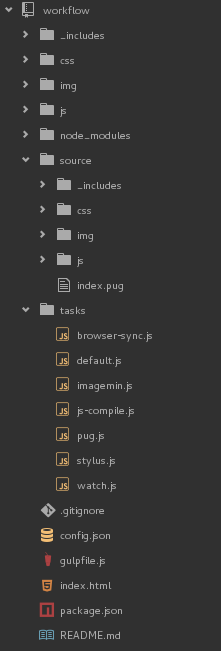
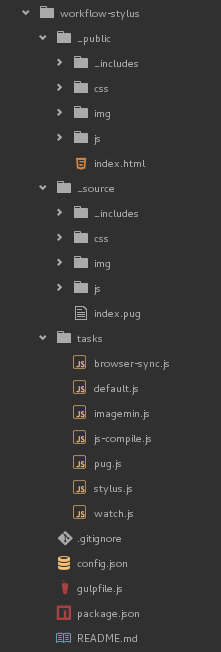
continuando com o artigo

diff --git a/index.html b/index.html
@@ -1,1 +1,19 @@
-<!DOCTYPE html><html lang="pt-br"><head><meta charset="utf-8"><meta http-equiv="X-UA-Compatible" content="IE=edge"><meta name="viewport" content="width=device-width, initial-scale=1.0"><title>Workflow with Stylus</title><meta name="description" content=""><meta name="keywords" content=""><link rel="stylesheet" href="css/styles.css"></head><body><div class="container"><header class="header heading"><img class="image" src="img/gulp-stylus.png"><h1 class="title">Workflow simples, porém muito eficiente</h1><h2 class="description">Automatizando seu workflow front-end com Gulp modularizado e Stylus</h2></header><section class="box"><div class="description"><p class="text">Salve salve peoples, tudo na paz?</p><p class="text">Não sei apenas eu ou mais alguém já passou por isso. A cada novo projeto, ter que refazer o workflow, com task runner, pré-processador CSS, template engine, frameworks, mi-mi-mi.</p><p class="text">Fui um pouquinho tapado em demorar pra ter um repositório como base de workflow! Eis que surgiu esse workflow simples, porém muito eficiente!</p><p class="text">Fiquei tão encanado com isso, que resolvi criar um workflow. Porém, uma coisa acabou me tirando o sono, literalmente. As tarefas do Gulp, muitas e muitas linhas no gulpfile.js.</p><p class="text">Você, dev front-end que conhece e trabalha com Gulp, quantas vezes você parou pra pensar:<span class="dialog">&#32;Poxa meu, quantas linhas eu não tenho em um simples gulpfile.js? Já passaram 110 linhas, que saco! Como posso melhorar isso? Não posso modularizar/componetizar igual fazemos com CSS?</span></p><p class="text">Fiquei extremamente estressado em ver aquele horror. Então, mais noites com poucas horas de sono se foram, rsrs'.</p><p class="text">Encontrei inúmeros tutoriais a respeito, porém a maioria utilizava o Browserify ou Webpack. Lendo um pouco sobre cada um deles, acabei chegando a conclusão de que eles são indicados para projetos mais complexos. Um site, portal de notícias, portfolio, hotsite não vi necessidade de implementá-los. Seria um desperdício de tecnologia!</p><p class="text">Depois de tantas pesquisas, conheci a dependência&#32;<a class="link" href="https://www.npmjs.com/package/gulp-load-plugins" target="_blank">gulp-load-plugins</a>&#32;encontrando no blog da editora&#32;<a class="link" href="https://www.packtpub.com/books/content/blogs" target="_blank">Packt Publishing</a>&#32;um EXCELENTE artigo escrito por Brian Hough: &#32;<a class="dialog link" href="https://www.packtpub.com/books/content/how-to-simplify-your-development-workflow-with-gulp" target="_blank">How to Simplify Your Development Workflow with Gulp</a>&#32;.</p><p class="text">Com essa dependência, conseguimos criar um&#32;<span class="arquivo-code">arquivo.js</span>&#32;para cada tarefa e no&#32;<span class="arquivo-code">gulpfile.js</span>&#32;chamar cada tarefa utilizando o&#32;<span class="arquivo-code">require</span>.</p><p class="text">Para entendermos melhor como ficou tudo, a imagem a seguir mostra como ficou a estrutura de arquivos:</p><img src="img/workflow-estrutura.png"></div></section></div><footer class="footer"><p class="text">by Ednilson Amaral</p></footer></body></html>
+<!DOCTYPE html><html lang="pt-br"><head><meta charset="utf-8"><meta http-equiv="X-UA-Compatible" content="IE=edge"><meta name="viewport" content="width=device-width, initial-scale=1.0"><title>Workflow with Stylus</title><meta name="description" content=""><meta name="keywords" content=""><link rel="stylesheet" href="css/styles.css"></head><body><div class="container"><header class="header heading"><img class="image" src="img/gulp-stylus.png"><h1 class="title">Workflow simples, porém muito eficiente</h1><h2 class="description">Automatizando seu workflow front-end com Gulp modularizado e Stylus</h2></header><section class="box"><div class="description"><p class="text">Salve salve peoples, tudo na paz?</p><p class="text">Não sei apenas eu ou mais alguém já passou por isso. A cada novo projeto, ter que refazer o workflow, com task runner, pré-processador CSS, template engine, frameworks, mi-mi-mi.</p><p class="text">Fui um pouquinho tapado em demorar pra ter um repositório como base de workflow! Eis que surgiu esse workflow simples, porém muito eficiente!</p><p class="text">Fiquei tão encanado com isso, que resolvi criar um workflow. Porém, uma coisa acabou me tirando o sono, literalmente. As tarefas do Gulp, muitas e muitas linhas no gulpfile.js.</p><p class="text">Você, dev front-end que conhece e trabalha com Gulp, quantas vezes você parou pra pensar:<span class="dialog">&#32;Poxa meu, quantas linhas eu não tenho em um simples gulpfile.js? Já passaram 110 linhas, que saco! Como posso melhorar isso? Não posso modularizar/componetizar igual fazemos com CSS?</span></p><p class="text">Fiquei extremamente estressado em ver aquele horror. Então, mais noites com poucas horas de sono se foram, rsrs'.</p><p class="text">Encontrei inúmeros tutoriais a respeito, porém a maioria utilizava o Browserify ou Webpack. Lendo um pouco sobre cada um deles, acabei chegando a conclusão de que eles são indicados para projetos mais complexos. Um site, portal de notícias, portfolio, hotsite não vi necessidade de implementá-los. Seria um desperdício de tecnologia!</p><p class="text">Depois de tantas pesquisas, conheci a dependência&#32;<a class="link" href="https://www.npmjs.com/package/gulp-load-plugins" target="_blank">gulp-load-plugins</a>&#32;encontrando no blog da editora&#32;<a class="link" href="https://www.packtpub.com/books/content/blogs" target="_blank">Packt Publishing</a>&#32;um EXCELENTE artigo escrito por Brian Hough: &#32;<a class="dialog link" href="https://www.packtpub.com/books/content/how-to-simplify-your-development-workflow-with-gulp" target="_blank">How to Simplify Your Development Workflow with Gulp</a>&#32;.</p><p class="text">Com essa dependência, conseguimos criar um&#32;<span class="arquivo-code">arquivo.js</span>&#32;para cada tarefa e no&#32;<span class="arquivo-code">gulpfile.js</span>&#32;chamar cada tarefa utilizando o&#32;<span class="arquivo-code">require</span>.</p><p class="text">Após todas as tarefas em arquivos separados, Gulp modularizado, belezinha, o arquivo&#32;<span class="arquivo-code">gulpfile.js</span>&#32;ficou dessa forma:</p><p class="text"><pre><code>'use strict';
+//Dev dependencies
+const gulp = require('gulp'),
+plugins = require('gulp-load-plugins')(),
+config = require('./config.json');
+//Browser Sync Task
+require(config.tasksPath + '/browser-sync')(gulp, plugins, config);
+//Stylus Task
+require(config.tasksPath + '/stylus')(gulp, plugins, config);
+//Pug Task
+require(config.tasksPath + '/pug')(gulp, plugins, config);
+//JS Task
+require(config.tasksPath + '/js-compile')(gulp, plugins, config);
+//Default Task
+require(config.tasksPath + '/imagemin')(gulp, plugins, config);
+//Watch Task
+require(config.tasksPath + '/watch')(gulp, plugins, config);
+//Default Task
+require(config.tasksPath + '/default')(gulp, plugins, config);</code></pre></p><p class="text">Para entendermos melhor como ficou tudo, a imagem a seguir mostra como ficou a estrutura de arquivos:</p><div class="workflow-estrutura"><div class="workflow-image"><img class="image" src="img/workflow-estrutura.png"></div><div class="workflow-list"><ul><li><span>- Nome da Pasta</span><p>Explicação do que tem na pasta e como irá funcionar.</p></li></ul></div></div><div class="cf"><p class="text">Lorem ipsum dolor sit amet, consectetur adipisicing elit, sed do eiusmod tempor incididunt ut labore et dolore magna aliqua. Ut enim ad minim veniam, quis nostrud exercitation ullamco laboris nisi ut aliquip ex ea commodo consequat. Duis aute irure dolor in reprehenderit in voluptate velit esse cillum dolore eu fugiat nulla pariatur. Excepteur sint occaecat cupidatat non proident, sunt in culpa qui officia deserunt mollit anim id est laborum.</p></div></div></section></div><footer class="footer"><p class="text">by Ednilson Amaral</p></footer></body></html>

diff --git a/_includes/home.html b/_includes/home.html
@@ -1,1 +1,19 @@
-<div class="description"><p class="text">Salve salve peoples, tudo na paz?</p><p class="text">Não sei apenas eu ou mais alguém já passou por isso. A cada novo projeto, ter que refazer o workflow, com task runner, pré-processador CSS, template engine, frameworks, mi-mi-mi.</p><p class="text">Fui um pouquinho tapado em demorar pra ter um repositório como base de workflow! Eis que surgiu esse workflow simples, porém muito eficiente!</p><p class="text">Fiquei tão encanado com isso, que resolvi criar um workflow. Porém, uma coisa acabou me tirando o sono, literalmente. As tarefas do Gulp, muitas e muitas linhas no gulpfile.js.</p><p class="text">Você, dev front-end que conhece e trabalha com Gulp, quantas vezes você parou pra pensar:<span class="dialog">&#32;Poxa meu, quantas linhas eu não tenho em um simples gulpfile.js? Já passaram 110 linhas, que saco! Como posso melhorar isso? Não posso modularizar/componetizar igual fazemos com CSS?</span></p><p class="text">Fiquei extremamente estressado em ver aquele horror. Então, mais noites com poucas horas de sono se foram, rsrs'.</p><p class="text">Encontrei inúmeros tutoriais a respeito, porém a maioria utilizava o Browserify ou Webpack. Lendo um pouco sobre cada um deles, acabei chegando a conclusão de que eles são indicados para projetos mais complexos. Um site, portal de notícias, portfolio, hotsite não vi necessidade de implementá-los. Seria um desperdício de tecnologia!</p><p class="text">Depois de tantas pesquisas, conheci a dependência&#32;<a class="link" href="https://www.npmjs.com/package/gulp-load-plugins" target="_blank">gulp-load-plugins</a>&#32;encontrando no blog da editora&#32;<a class="link" href="https://www.packtpub.com/books/content/blogs" target="_blank">Packt Publishing</a>&#32;um EXCELENTE artigo escrito por Brian Hough: &#32;<a class="dialog link" href="https://www.packtpub.com/books/content/how-to-simplify-your-development-workflow-with-gulp" target="_blank">How to Simplify Your Development Workflow with Gulp</a>&#32;.</p><p class="text">Com essa dependência, conseguimos criar um&#32;<span class="arquivo-code">arquivo.js</span>&#32;para cada tarefa e no&#32;<span class="arquivo-code">gulpfile.js</span>&#32;chamar cada tarefa utilizando o&#32;<span class="arquivo-code">require</span>.</p><p class="text">Para entendermos melhor como ficou tudo, a imagem a seguir mostra como ficou a estrutura de arquivos:</p><img src="img/workflow-estrutura.png"/></div>
+<div class="description"><p class="text">Salve salve peoples, tudo na paz?</p><p class="text">Não sei apenas eu ou mais alguém já passou por isso. A cada novo projeto, ter que refazer o workflow, com task runner, pré-processador CSS, template engine, frameworks, mi-mi-mi.</p><p class="text">Fui um pouquinho tapado em demorar pra ter um repositório como base de workflow! Eis que surgiu esse workflow simples, porém muito eficiente!</p><p class="text">Fiquei tão encanado com isso, que resolvi criar um workflow. Porém, uma coisa acabou me tirando o sono, literalmente. As tarefas do Gulp, muitas e muitas linhas no gulpfile.js.</p><p class="text">Você, dev front-end que conhece e trabalha com Gulp, quantas vezes você parou pra pensar:<span class="dialog">&#32;Poxa meu, quantas linhas eu não tenho em um simples gulpfile.js? Já passaram 110 linhas, que saco! Como posso melhorar isso? Não posso modularizar/componetizar igual fazemos com CSS?</span></p><p class="text">Fiquei extremamente estressado em ver aquele horror. Então, mais noites com poucas horas de sono se foram, rsrs'.</p><p class="text">Encontrei inúmeros tutoriais a respeito, porém a maioria utilizava o Browserify ou Webpack. Lendo um pouco sobre cada um deles, acabei chegando a conclusão de que eles são indicados para projetos mais complexos. Um site, portal de notícias, portfolio, hotsite não vi necessidade de implementá-los. Seria um desperdício de tecnologia!</p><p class="text">Depois de tantas pesquisas, conheci a dependência&#32;<a class="link" href="https://www.npmjs.com/package/gulp-load-plugins" target="_blank">gulp-load-plugins</a>&#32;encontrando no blog da editora&#32;<a class="link" href="https://www.packtpub.com/books/content/blogs" target="_blank">Packt Publishing</a>&#32;um EXCELENTE artigo escrito por Brian Hough: &#32;<a class="dialog link" href="https://www.packtpub.com/books/content/how-to-simplify-your-development-workflow-with-gulp" target="_blank">How to Simplify Your Development Workflow with Gulp</a>&#32;.</p><p class="text">Com essa dependência, conseguimos criar um&#32;<span class="arquivo-code">arquivo.js</span>&#32;para cada tarefa e no&#32;<span class="arquivo-code">gulpfile.js</span>&#32;chamar cada tarefa utilizando o&#32;<span class="arquivo-code">require</span>.</p><p class="text">Após todas as tarefas em arquivos separados, Gulp modularizado, belezinha, o arquivo&#32;<span class="arquivo-code">gulpfile.js</span>&#32;ficou dessa forma:</p><p class="text"><pre><code>'use strict';
+//Dev dependencies
+const gulp = require('gulp'),
+plugins = require('gulp-load-plugins')(),
+config = require('./config.json');
+//Browser Sync Task
+require(config.tasksPath + '/browser-sync')(gulp, plugins, config);
+//Stylus Task
+require(config.tasksPath + '/stylus')(gulp, plugins, config);
+//Pug Task
+require(config.tasksPath + '/pug')(gulp, plugins, config);
+//JS Task
+require(config.tasksPath + '/js-compile')(gulp, plugins, config);
+//Default Task
+require(config.tasksPath + '/imagemin')(gulp, plugins, config);
+//Watch Task
+require(config.tasksPath + '/watch')(gulp, plugins, config);
+//Default Task
+require(config.tasksPath + '/default')(gulp, plugins, config);</code></pre></p><p class="text">Para entendermos melhor como ficou tudo, a imagem a seguir mostra como ficou a estrutura de arquivos:</p><div class="workflow-estrutura"><div class="workflow-image"><img class="image" src="img/workflow-estrutura.png"/></div><div class="workflow-list"><ul><li><span>- Nome da Pasta</span><p>Explicação do que tem na pasta e como irá funcionar.</p></li></ul></div></div><div class="cf"><p class="text">Lorem ipsum dolor sit amet, consectetur adipisicing elit, sed do eiusmod tempor incididunt ut labore et dolore magna aliqua. Ut enim ad minim veniam, quis nostrud exercitation ullamco laboris nisi ut aliquip ex ea commodo consequat. Duis aute irure dolor in reprehenderit in voluptate velit esse cillum dolore eu fugiat nulla pariatur. Excepteur sint occaecat cupidatat non proident, sunt in culpa qui officia deserunt mollit anim id est laborum.</p></div></div>

diff --git a/css/styles.css b/css/styles.css
@@ -1,2 +1,2 @@
 @import url("https://fonts.googleapis.com/css?family=Titillium+Web:200");
-html,body,div,span,applet,object,iframe,h1,h2,h3,h4,h5,h6,p,blockquote,pre,a,abbr,acronym,address,big,cite,code,del,dfn,em,img,ins,kbd,q,s,samp,small,strike,strong,sub,sup,tt,var,dl,dt,dd,ol,ul,li,fieldset,form,label,legend,table,caption,tbody,tfoot,thead,tr,th,td{margin:0;padding:0;border:0;outline:0;font-weight:inherit;font-style:inherit;font-family:inherit;font-size:100%;vertical-align:baseline}body{line-height:1;color:#000;background:#fff}ol,ul{list-style:none}table{border-collapse:separate;border-spacing:0;vertical-align:middle}caption,th,td{text-align:left;font-weight:normal;vertical-align:middle}a img{border:none}*{box-sizing:border-box;-webkit-box-sizing:border-box;-moz-box-sizing:border-box;margin:0;padding:0}body{font-family:'Titillium Web',sans-serif;font-weight:normal;color:#000;background-color:#dadada}a{outline:0;text-decoration:none}li{list-style:none}.heading .title{font-size:22px;font-size:1.375rem;font-weight:bold}.heading .description{font-size:18px;font-size:1.125rem;color:#224192}.description{padding:5px 0;line-height:1.5;font-size:16px;font-size:1rem;}.description .text{margin-bottom:20px;}.description .text:last-child{margin-bottom:0}.link{color:#224192;}.link:hover{text-decoration:underline}.container{*zoom:1;width:auto;max-width:1440px;float:none;display:block;margin-right:auto;margin-left:auto;padding-left:0;padding-right:0}.container:before,.container:after{content:'';display:table}.container:after{clear:both}.box{width:100%;margin-top:.3125rem;margin-bottom:.3125rem;background-color:#fff;padding:10px}.header{background-color:#eb4a4b;padding:10px;text-align:center;}.header .image{height:100%;margin-bottom:15px}.header .title{color:#fff;font-weight:bold;font-size:30px;font-size:1.875rem}.header .description{color:#ececec}.footer .text{text-align:center;font-size:14px;font-size:.875rem;color:#224192;font-weight:bold}.clearfix{zoom:1}.clearfix:before,.clearfix:after{content:"";display:table}.clearfix:after{clear:both}.dialog{font-style:italic;font-weight:bold}.arquivo-code{color:#224192;font-weight:bold}
+html,body,div,span,applet,object,iframe,h1,h2,h3,h4,h5,h6,p,blockquote,pre,a,abbr,acronym,address,big,cite,code,del,dfn,em,img,ins,kbd,q,s,samp,small,strike,strong,sub,sup,tt,var,dl,dt,dd,ol,ul,li,fieldset,form,label,legend,table,caption,tbody,tfoot,thead,tr,th,td{margin:0;padding:0;border:0;outline:0;font-weight:inherit;font-style:inherit;font-family:inherit;font-size:100%;vertical-align:baseline}body{line-height:1;color:#000;background:#fff}ol,ul{list-style:none}table{border-collapse:separate;border-spacing:0;vertical-align:middle}caption,th,td{text-align:left;font-weight:normal;vertical-align:middle}a img{border:none}*{box-sizing:border-box;-webkit-box-sizing:border-box;-moz-box-sizing:border-box;margin:0;padding:0}body{font-family:'Titillium Web',sans-serif;font-weight:normal;color:#000;background-color:#dadada}a{outline:0;text-decoration:none}li{list-style:none}.heading .title{font-size:22px;font-size:1.375rem;font-weight:bold}.heading .description{font-size:18px;font-size:1.125rem;color:#224192}.description{padding:5px 0;line-height:1.5;font-size:16px;font-size:1rem;}.description .text{margin-bottom:20px;}.description .text:last-child{margin-bottom:0}.link{color:#224192;}.link:hover{text-decoration:underline}.container{*zoom:1;width:auto;max-width:1440px;float:none;display:block;margin-right:auto;margin-left:auto;padding-left:0;padding-right:0}.container:before,.container:after{content:'';display:table}.container:after{clear:both}.box{width:100%;margin-top:.3125rem;margin-bottom:.3125rem;background-color:#fff;padding:10px}.header{background-color:#eb4a4b;padding:10px;text-align:center;}.header .image{height:100%;margin-bottom:15px}.header .title{color:#fff;font-weight:bold;font-size:30px;font-size:1.875rem}.header .description{color:#ececec}.footer .text{text-align:center;font-size:14px;font-size:.875rem;color:#224192;font-weight:bold}.workflow-estrutura .workflow-image{background-color:#ff0}.workflow-estrutura .workflow-list{background-color:#008000}.clearfix{zoom:1}.clearfix:before,.clearfix:after{content:"";display:table}.clearfix:after{clear:both}.dialog{font-style:italic;font-weight:bold}.arquivo-code{color:#224192;font-weight:bold}

diff --git a/source/css/main.css b/source/css/main.css
@@ -1,2 +1,2 @@
 @import url("https://fonts.googleapis.com/css?family=Titillium+Web:200");
-html,body,div,span,applet,object,iframe,h1,h2,h3,h4,h5,h6,p,blockquote,pre,a,abbr,acronym,address,big,cite,code,del,dfn,em,img,ins,kbd,q,s,samp,small,strike,strong,sub,sup,tt,var,dl,dt,dd,ol,ul,li,fieldset,form,label,legend,table,caption,tbody,tfoot,thead,tr,th,td{margin:0;padding:0;border:0;outline:0;font-weight:inherit;font-style:inherit;font-family:inherit;font-size:100%;vertical-align:baseline}body{line-height:1;color:#000;background:#fff}ol,ul{list-style:none}table{border-collapse:separate;border-spacing:0;vertical-align:middle}caption,th,td{text-align:left;font-weight:normal;vertical-align:middle}a img{border:none}*{box-sizing:border-box;-webkit-box-sizing:border-box;-moz-box-sizing:border-box;margin:0;padding:0}body{font-family:'Titillium Web',sans-serif;font-weight:normal;color:#000;background-color:#dadada}a{outline:0;text-decoration:none}li{list-style:none}.heading .title{font-size:22px;font-size:1.375rem;font-weight:bold}.heading .description{font-size:18px;font-size:1.125rem;color:#224192}.description{padding:5px 0;line-height:1.5;font-size:16px;font-size:1rem;}.description .text{margin-bottom:20px;}.description .text:last-child{margin-bottom:0}.link{color:#224192;}.link:hover{text-decoration:underline}.container{*zoom:1;width:auto;max-width:1440px;float:none;display:block;margin-right:auto;margin-left:auto;padding-left:0;padding-right:0}.container:before,.container:after{content:'';display:table}.container:after{clear:both}.box{width:100%;margin-top:.3125rem;margin-bottom:.3125rem;background-color:#fff;padding:10px}.header{background-color:#eb4a4b;padding:10px;text-align:center;}.header .image{height:100%;margin-bottom:15px}.header .title{color:#fff;font-weight:bold;font-size:30px;font-size:1.875rem}.header .description{color:#ececec}.footer .text{text-align:center;font-size:14px;font-size:.875rem;color:#224192;font-weight:bold}.clearfix{zoom:1}.clearfix:before,.clearfix:after{content:"";display:table}.clearfix:after{clear:both}.dialog{font-style:italic;font-weight:bold}.arquivo-code{color:#224192;font-weight:bold}
+html,body,div,span,applet,object,iframe,h1,h2,h3,h4,h5,h6,p,blockquote,pre,a,abbr,acronym,address,big,cite,code,del,dfn,em,img,ins,kbd,q,s,samp,small,strike,strong,sub,sup,tt,var,dl,dt,dd,ol,ul,li,fieldset,form,label,legend,table,caption,tbody,tfoot,thead,tr,th,td{margin:0;padding:0;border:0;outline:0;font-weight:inherit;font-style:inherit;font-family:inherit;font-size:100%;vertical-align:baseline}body{line-height:1;color:#000;background:#fff}ol,ul{list-style:none}table{border-collapse:separate;border-spacing:0;vertical-align:middle}caption,th,td{text-align:left;font-weight:normal;vertical-align:middle}a img{border:none}*{box-sizing:border-box;-webkit-box-sizing:border-box;-moz-box-sizing:border-box;margin:0;padding:0}body{font-family:'Titillium Web',sans-serif;font-weight:normal;color:#000;background-color:#dadada}a{outline:0;text-decoration:none}li{list-style:none}.heading .title{font-size:22px;font-size:1.375rem;font-weight:bold}.heading .description{font-size:18px;font-size:1.125rem;color:#224192}.description{padding:5px 0;line-height:1.5;font-size:16px;font-size:1rem;}.description .text{margin-bottom:20px;}.description .text:last-child{margin-bottom:0}.link{color:#224192;}.link:hover{text-decoration:underline}.container{*zoom:1;width:auto;max-width:1440px;float:none;display:block;margin-right:auto;margin-left:auto;padding-left:0;padding-right:0}.container:before,.container:after{content:'';display:table}.container:after{clear:both}.box{width:100%;margin-top:.3125rem;margin-bottom:.3125rem;background-color:#fff;padding:10px}.header{background-color:#eb4a4b;padding:10px;text-align:center;}.header .image{height:100%;margin-bottom:15px}.header .title{color:#fff;font-weight:bold;font-size:30px;font-size:1.875rem}.header .description{color:#ececec}.footer .text{text-align:center;font-size:14px;font-size:.875rem;color:#224192;font-weight:bold}.workflow-estrutura .workflow-image{background-color:#ff0}.workflow-estrutura .workflow-list{background-color:#008000}.clearfix{zoom:1}.clearfix:before,.clearfix:after{content:"";display:table}.clearfix:after{clear:both}.dialog{font-style:italic;font-weight:bold}.arquivo-code{color:#224192;font-weight:bold}
